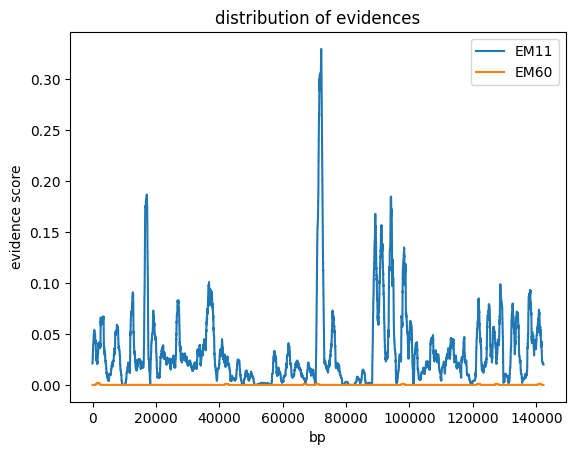
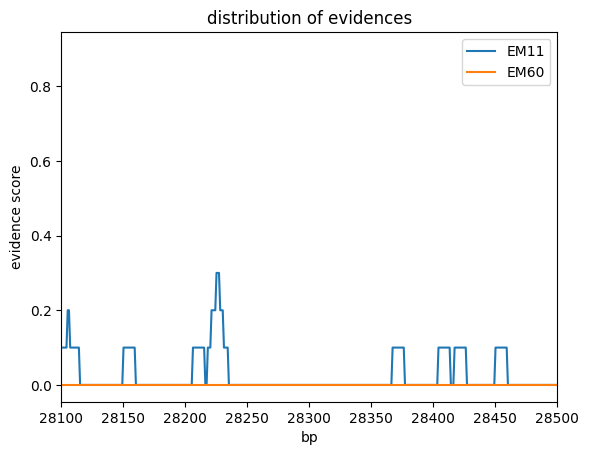
final results

Changed region(s): [[0.0, 0.0615, 1.0, 0.9846], [0.3438, 0.0308, 0.75, 0.0615], [0.0, 0.5538, 0.0312, 0.5846]]

diff --git a/MSAstats/process_clone_msa.py b/MSAstats/process_clone_msa.py
@@ -45,7 +45,7 @@ for population in populations:
         first_e_distribution, second_e_distribution = get_evidences_distributions(msa_matrix)
         distribution_evidence_sites=first_e_distribution+second_e_distribution
 
-        k=1000
+        k=10
         first_convoluted=np.convolve(first_e_distribution, np.ones(k), mode='same')
         second_convoluted=np.convolve(second_e_distribution, np.ones(k), mode='same')
         normaliser_convoluted=np.convolve(distribution_evidence_sites, np.ones(k), mode='same')
@@ -59,6 +59,7 @@ for population in populations:
         plt.plot(x, second_normalised, label=references[1])
         plt.xlabel('bp')
         plt.ylabel('evidence score')
+        plt.xlim([28100,28500])
         plt.legend()
         plt.savefig(out_folder, bbox_inches='tight')
         plt.close()
@@ -73,6 +74,7 @@ for population in populations:
         plt.plot(x, second_non_normalised, label=references[1])
         plt.xlabel('bp')
         plt.ylabel('evidence score')
+        plt.xlim([28100,28500])
         plt.legend()
         plt.savefig(out_folder, bbox_inches='tight')
         plt.close()

diff --git a/scripts/fastq_statistics.py b/scripts/fastq_statistics.py
@@ -3,6 +3,12 @@ from Bio import SeqIO,bgzf
 import numpy as np
 import matplotlib.pyplot as plt
 
+'''
+
+this script gives some statistics on the fastq files of the nanopore run,
+it is not important for the recombination analysis
+
+'''
 len_dict={}
 
 lens=[]
@@ -16,6 +22,7 @@ clones=['C1','C2','C3','C4']
 
 for population in populations:
     for clone in clones:
+
         '''
         path_in = f"./data/nanopore/{population}_{clone}.fastq.gz"
         path_out = f"./data/nanopore_length_threshold/{population}_{clone}.fastq.gz"

diff --git a/scripts/final_dotplot.py b/scripts/final_dotplot.py
@@ -2,6 +2,14 @@ import matplotlib.pyplot as plt
 from collections import defaultdict
 from Bio import SeqIO
 
+'''
+
+a similar version of this script was integrated in the evo-genome-analysis pipeline
+to create a dotplot together with the coverage data of the mapping data
+
+this is just a script to test the code
+
+'''
 def extract_seq(path):
     return SeqIO.read(path, 'fasta').seq
 

diff --git a/notes/report.md b/notes/report.md
@@ -1,0 +1,173 @@
+# Report
+
+This note contains the recap of the results found in the dataset produced by an Aionostat experiment carried out with multiple phages in each vial. each vial contained 3 phages: EC2D2, EM11, EM60.
+
+We expect the difference phages to recombinate during the experiment and we are searching for evidences of recombination in the dataset.
+
+Two different types of phage genome data where analysed:
+
+- phage isolates: some phages were isolated at the end of the experiment, amplified and sequenced.
+- phage populations: at multiple timesteps the content of the vials was sequenced.
+
+## phage isolates
+
+### clone-1 population 2:
+
+![c1](/results/plots/P2/C1.png)
+
+### clone-2 population 2:
+
+![c2](/results/plots/P2/C2.png)
+
+### clone-3 population 2:
+
+![c3](/results/plots/P2/C3.png)
+
+### clone-4 population 2:
+
+![c4](/results/plots/P2/C4.png)
+
+### clone-1 population 3:
+
+![c1](/results/plots/P3/C1.png)
+
+all the isolates from population 3 are similar to the first one, they show no evidence of recombination.
+
+## phage populations
+
+The data from phage populations was aligned thorugh minimap with the following command:
+
+<pre>
+minimap2 -a -x map-ont {input.ref} {input.fastq} > {output.sam}
+        samtools sort {output.sam} > {output.bam}
+        samtools index {output.bam}
+</pre>
+
+We tried to use the option -x asm5 but the only advantage that we got was that the coverage showed more sharp edges in correspondance of the border of the regions that were recombinated. This option messed up the non consensus frequency signal of recombination so I decided to consider the result obtained with the default mapping of minimap2. THE PLOTS OF THIS REPORT COME ALL FROM THE MAPPING PERFORMED WITHOUT ASM5.
+
+With default minimap2 mapping we found clear signals of recombinations in COVERAGE and NON CONSENSUS FREQUENCY distribution.
+
+Population 2 showed more recombination evidences with respect to population 3. This is due to the fact that in population 3 the relative initial quantities of phages were very uneven. This reduces the probability and the signal of recombination and it creates big artifacts when mapping the reads on two references.
+
+### coverage population 2
+
+EM11:
+
+![EM11_coverage](images/P2/EM11_coverage.png)
+
+EM60:
+
+![EM60_coverage](images/P2/EM60_coverage.png)
+
+In the first part of the genome we can see that the coverage of EM11 is decreasing over time, while the coverage of EM60 is increasing (while the rest of the genome is disappearing).
+
+We can see that in EM60 there are some light bumps along the genome and at the end, around 120 kb there is a region that remains a bit covered in time.
+
+### non consensus frequency population 2
+
+EM11:
+
+![EM11_consensus_summary](images/P2/EM11_consensus_summary.png)
+
+EM60:
+
+![EM60_consensus_summary](images/P2/EM60_consensus_summary.png)
+
+Fro the non consensus frequency summary plots we can see that the border of the region of recombination is full of snps, this is because minimap is mapping recombinant reads on a genome or the other.
+
+### coverage populetion 3
+
+EM11:
+
+![EM11_coverage](images/P3/EM11_coverage.png)
+
+EM60:
+
+![EM60_coverage](images/P3/EM60_coverage.png)
+
+The coverage of EM11 is pretty linear throughout the days, there is no sign of recombination.
+
+In EM60 we can see that the first part of the genome is increasing in abundance as time passes and that there are some huge spikes in the rest of the genome.
+
+The spikes are in correspondence of hyper homologous regions, we studied them through a dot plot:
+
+![dotplot_EM60_P3](images/dotplot_EM60_P3.png)
+
+### non consensus frequency population 3
+
+the non consensus frequency data did not give any clear clue of recombination, maybe the discrepancy in coverage makes it difficult to have a signal.
+
+## quantification of recombination
+
+The idea is to use the mutations pattern to recognise when a read is made of two different genomes, we want a precise method. 
+
+We will just start by defining the possible evidences, for the sequence of a read, to belong to a genome or another. imagine to have a msa between a chimeric read and the two genomes. if we go though each nucleotide (considering 3 nucleotides), there are 4 possible situations (we will just consider the position where all 3 sequences align):
+
+1. the nucleotide of the read is different from both refernece nucleotides, in this case we have no information
+2. the two reference nucleotides are equal, and the read nucleotide is equal to them, in this case we have no information about the apparteinence of the read to one of the two references.
+3. the read nucleotide is equal to the first reference nucleotide but different from the second: this is a clear evidence that this portion of the read belongs to the first reference
+4. the read nucleotide is equal to the second reference nucleotide but different from the first: this is a clear evidence that this portion of the read belongs to the second reference.
+
+we want to record all these evidences and represent them in a plot.
+
+### finding evidences in clone assemblies
+
+we start working with the recombinant clones that we assembled, it will be our positive control. we use mafft to make the msa between the assembly and the two references.
+
+we will just analyse the clones of population 2 since they are the only recombinant ones. by plotting the distribution of the evidences we get something like this:
+
+C1:
+
+![assembly_msa](/results/plots/recombination_evidences/clones/P2_C1_non_normalised_msa.png)
+
+C2:
+
+![assembly_msa](/results/plots/recombination_evidences/clones/P2_C2_non_normalised_msa.png)
+
+C3:
+
+![assembly_msa](/results/plots/recombination_evidences/clones/P2_C3_non_normalised_msa.png)
+
+C4:
+
+![assembly_msa](/results/plots/recombination_evidences/clones/P2_C4_non_normalised_msa.png)
+
+I have also produced the normalised version of these plots, for the number of sites in which we can find an evidence. It looks something like this:
+
+![assembly_msa](/results/plots/recombination_evidences/clones/P2_C1_msa.png)
+
+### Border of recombination
+
+on these graphs we can inspect the recombination border with a smaller convolution window.
+
+![closeup_recombination_region](images/recombination_region_closeup.png)
+
+in this case, with a convolution window of 10 bp, we have a range of 100 bp in which the recombination event might have happened.
+
+### Second recombination event
+
+It could be also interesting to inspect the region around 120 kb that shows some peaks of evidences for EM60. In the following plots i used a convolution window of 100.
+
+clone 1:
+
+![second_recombination_1](images/second_recombination_P2_C1_msa.png)
+
+clone 2:
+
+![second_recombination_2](images/second_recombination_P2_C2_msa.png)
+
+clone 3:
+
+![second_recombination_3](images/second_recombination_P2_C3_msa.png)
+
+It is clear that also in this small region we are having some recombination.
+
+### measuring recombination in the population of reads
+
+now we want to try with reads, we can take reads from the last populations, selecting for the best matching ones. we use mafft and then we analyse the msa.
+
+we go throught the bam file and get the names of the reads that have the longest mapping length (average between primary and secondary mapping).
+
+results in the folder.
+
+this may be ok but mafft requires a lot of time to run, we have to find another way.

diff --git a/notes/note1.md b/notes/note1.md
@@ -463,8 +463,6 @@ there is no signal suggesting something about genome recombination.
 
 we can clean each assembly, keeping only the non contaminated part and putting them all in the right direction, this is the result:
 
-![EM60_coverage](images/P3/EM60_coverage.png)
-
 ## population 2
 
 clone-1:
@@ -579,19 +577,19 @@ we will just analyse the clones of population 2 since they are the only recombin
 
 C1:
 
-![assembly_msa](/results/plots/recombination_evidences/clones/C1.png)
+![assembly_msa](/results/plots/recombination_evidences/clones/P2_C1_non_normalised_msa.png)
 
 C2:
 
-![assembly_msa](/results/plots/recombination_evidences/clones/C2.png)
+![assembly_msa](/results/plots/recombination_evidences/clones/P2_C2_non_normalised_msa.png)
 
 C3:
 
-![assembly_msa](/results/plots/recombination_evidences/clones/C3.png)
+![assembly_msa](/results/plots/recombination_evidences/clones/P2_C3_non_normalised_msa.png)
 
 C4:
 
-![assembly_msa](/results/plots/recombination_evidences/clones/C4.png)
+![assembly_msa](/results/plots/recombination_evidences/clones/P2_C4_non_normalised_msa.png)
 
 on these graphs we can inspect the recombination border with a smaller convolution window.
 
@@ -624,4 +622,4 @@ this may be ok but mafft requires a lot of time to run, we have to find another 
 - normalise for expected values in evidence distribution
 
 
-# another approach can be tried: splitting reads before and then mapping them
+## another approach can be tried: splitting the reads before and then mapping them to the pool of reference genome, if part of a read is mapped on a genome and another part on another genome, we suppose that the read is recombinant.
